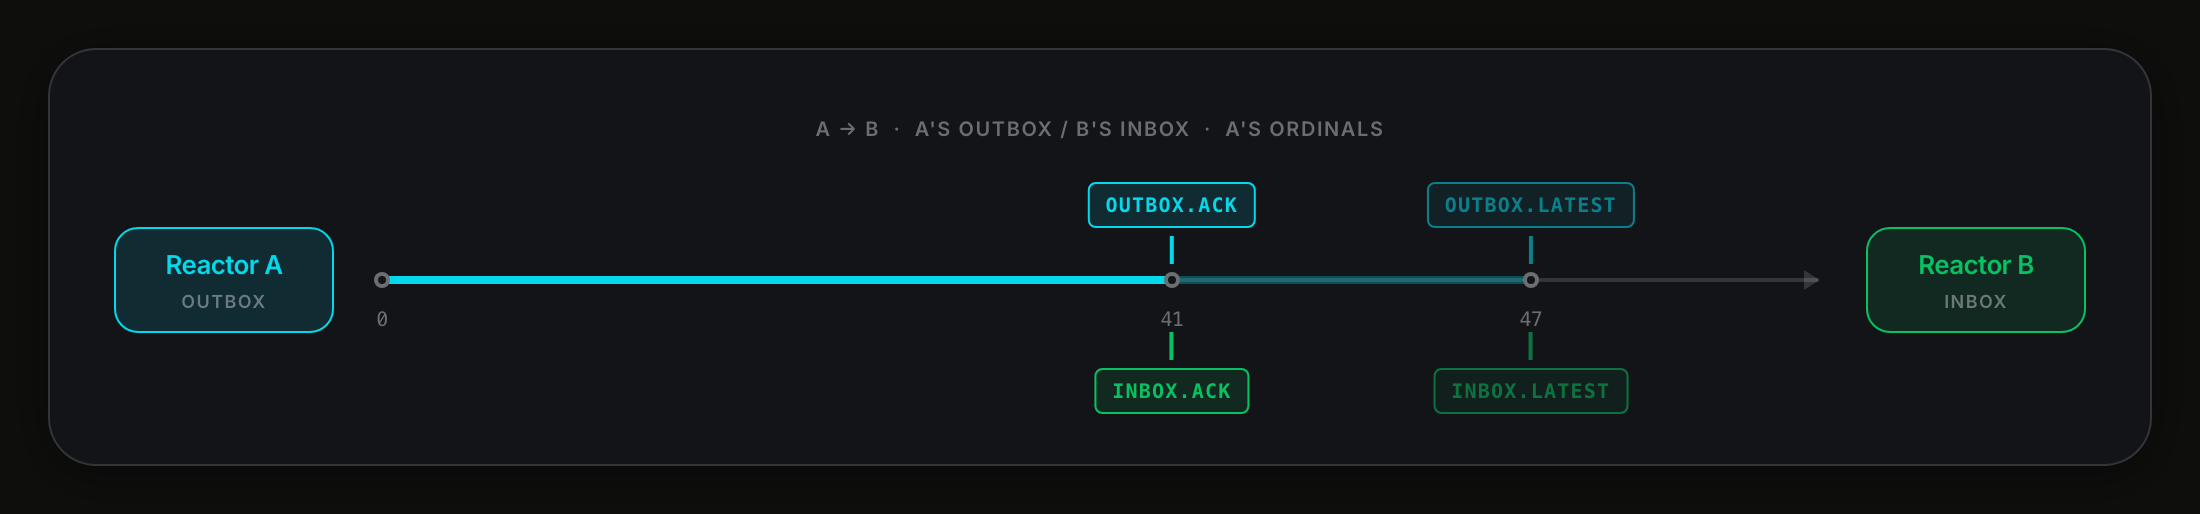
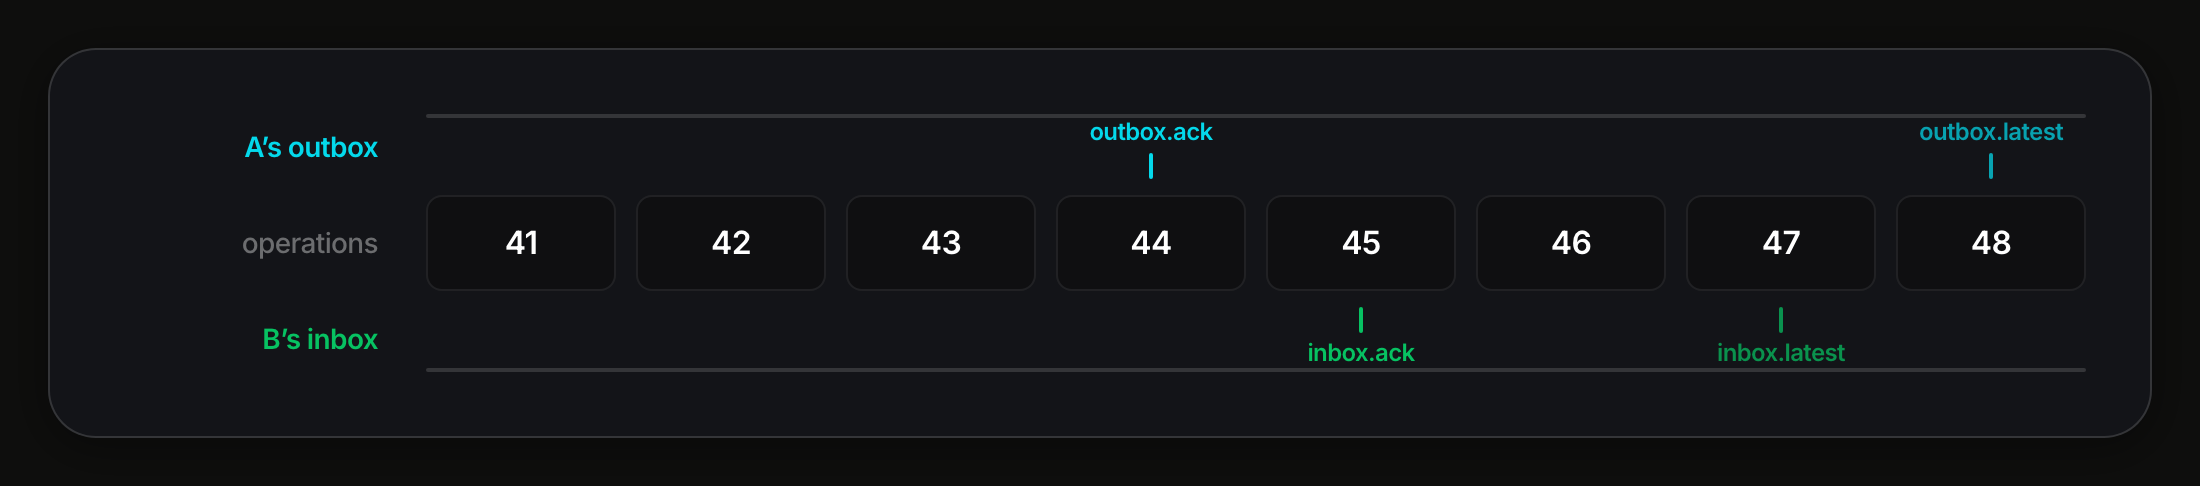
rebuild: sync-cursors as one stream with outbox and inbox tracks

diff --git a/diagrams/pages/sync-cursors.html b/diagrams/pages/sync-cursors.html
@@ -9,167 +9,121 @@
   <link rel="stylesheet" href="../css/base.css">
   <link rel="stylesheet" href="../css/components.css">
   <style>
+    /* One stream of operations, with A's outbox cursors tracked above it and B's inbox
+       cursors below. The four land on four different ordinals on purpose — they move
+       independently, and the previous version pinned them in pairs, which made them look
+       like they had to agree.
+
+       The three tracks share one 8-column template, so a cursor placed in column N sits
+       directly over operation N. Every item is placed explicitly; no auto placement. */
     .frame { max-width: 1100px; }
     .card { height: auto; }
-    .card-body { flex: none; gap: var(--space-2xl); }
+    .card-body { flex: none; }
 
-    .direction {
+    .wrap {
       display: grid;
-      grid-template-columns: 110px 1fr 110px;
+      grid-template-columns: 132px 1fr;
+      column-gap: var(--space-lg);
+      row-gap: var(--space-sm);
       align-items: center;
-      gap: var(--space-lg);
     }
 
-    .endpoint {
-      border: 1px solid var(--border-glass);
-      border-radius: var(--radius-md);
-      padding: var(--space-sm) var(--space-md);
-      font-size: 13px;
+    .lbl {
+      grid-column: 1;
+      text-align: right;
+      font-size: 14px;
       font-weight: var(--font-weight-semibold);
-      text-align: center;
-      background: var(--bg-elevated);
+      white-space: nowrap;
     }
-    .endpoint.accent-cyan  { border-color: var(--accent-cyan);  background: var(--accent-cyan-bg);  color: var(--accent-cyan); }
-    .endpoint.accent-green { border-color: var(--accent-green); background: var(--accent-green-bg); color: var(--accent-green); }
-    .endpoint .role {
-      display: block;
-      font-size: 9px;
-      font-weight: var(--font-weight-semibold);
-      letter-spacing: 0.08em;
-      text-transform: uppercase;
-      color: var(--text-muted);
-      margin-top: 2px;
+    .lbl.cyan  { color: var(--accent-cyan); }
+    .lbl.green { color: var(--accent-green); }
+    .lbl.muted { color: var(--text-muted); font-weight: var(--font-weight-medium); }
+
+    .track, .ops {
+      grid-column: 2;
+      display: grid;
+      grid-template-columns: repeat(8, 1fr);
+      column-gap: 10px;
     }
 
-    /* Number line */
-    .line-wrap { position: relative; height: 120px; }
     .line {
-      position: absolute;
-      left: 0; right: 0; top: 50%;
+      grid-column: 1 / -1;
       height: 2px;
       background: var(--border-glass);
-      transform: translateY(-50%);
+      border-radius: 1px;
     }
-    .line::after {
-      content: '';
-      position: absolute;
-      right: -1px; top: 50%;
-      transform: translateY(-50%);
-      border-top: 5px solid transparent;
-      border-bottom: 5px solid transparent;
-      border-left: 8px solid var(--border-glass);
-    }
-    /* filled segment: applied (0..ack) and seen-but-pending (ack..latest) */
-    .seg {
-      position: absolute;
-      top: 50%;
-      height: 4px;
-      transform: translateY(-50%);
-      border-radius: 2px;
-    }
-    .seg.applied.cyan  { background: var(--accent-cyan); }
-    .seg.applied.green { background: var(--accent-green); }
-    .seg.pending.cyan  { background: var(--accent-cyan);  opacity: 0.3; }
-    .seg.pending.green { background: var(--accent-green); opacity: 0.3; }
+    .track.top .line { grid-row: 1; }
+    .track.top .cur  { grid-row: 2; }
+    .track.bottom .cur  { grid-row: 1; }
+    .track.bottom .line { grid-row: 2; }
 
-    .tick {
-      position: absolute;
-      top: 50%;
-      transform: translate(-50%, -50%);
-      width: 8px; height: 8px;
-      border-radius: 50%;
-      background: var(--bg-surface);
-      border: 2px solid var(--text-muted);
-    }
-    .tick-num {
-      position: absolute;
-      top: calc(50% + 12px);
-      transform: translateX(-50%);
-      font-size: 10px;
-      color: var(--text-muted);
-      font-family: var(--font-mono, 'SF Mono', 'Fira Code', monospace);
-    }
-
-    /* Cursor markers */
-    .cursor {
-      position: absolute;
-      transform: translateX(-50%);
+    .cur {
       display: flex;
       flex-direction: column;
       align-items: center;
-      gap: 4px;
+      gap: 3px;
     }
-    .cursor.above { bottom: calc(50% + 8px); }
-    .cursor.below { top: calc(50% + 26px); flex-direction: column-reverse; }
-    .cursor-pin {
-      width: 2px; height: 14px;
-    }
-    .cursor-tag {
-      font-size: 10px;
+    .track.bottom .cur { flex-direction: column-reverse; }
+    .tag {
+      font-size: 12px;
       font-weight: var(--font-weight-semibold);
-      letter-spacing: 0.06em;
-      text-transform: uppercase;
-      padding: 3px 8px;
-      border-radius: var(--radius-xs);
-      border: 1px solid;
       white-space: nowrap;
-      font-family: var(--font-mono, 'SF Mono', 'Fira Code', monospace);
+      line-height: 1.2;
     }
-    .cursor.cyan .cursor-pin  { background: var(--accent-cyan); }
-    .cursor.cyan .cursor-tag  { color: var(--accent-cyan);  border-color: var(--accent-cyan);  background: var(--accent-cyan-bg); }
-    .cursor.green .cursor-pin { background: var(--accent-green); }
-    .cursor.green .cursor-tag { color: var(--accent-green); border-color: var(--accent-green); background: var(--accent-green-bg); }
-    .cursor.dim .cursor-tag   { opacity: 0.55; }
-    .cursor.dim .cursor-pin   { opacity: 0.55; }
+    .pin { width: 2px; height: 13px; border-radius: 1px; }
+    .cur.cyan  .tag { color: var(--accent-cyan); }
+    .cur.cyan  .pin { background: var(--accent-cyan); }
+    .cur.green .tag { color: var(--accent-green); }
+    .cur.green .pin { background: var(--accent-green); }
+    /* "latest" is the leading edge; "ack" is the settled one, so ack reads solid */
+    .cur.ahead .tag { opacity: 0.72; }
+    .cur.ahead .pin { opacity: 0.72; }
 
-    .dir-label {
-      font-size: 10px;
-      font-weight: var(--font-weight-semibold);
-      letter-spacing: 0.08em;
-      text-transform: uppercase;
-      color: var(--text-muted);
+    .op {
+      border: 1px solid var(--border-subtle);
+      border-radius: var(--radius-sm, 8px);
+      background: rgba(0, 0, 0, 0.25);
+      padding: 11px 0;
       text-align: center;
-      margin-bottom: var(--space-sm);
+      font-size: 16px;
+      font-weight: var(--font-weight-semibold);
+      color: var(--text-primary);
     }
-
   </style>
 </head>
 <body>
   <div class="frame">
     <div class="card">
       <div class="card-body">
+        <div class="wrap">
 
-        <!-- A → B : A's outbox, B's inbox -->
-        <div>
-          <div class="dir-label">A → B &nbsp;·&nbsp; A's outbox / B's inbox &nbsp;·&nbsp; A's ordinals</div>
-          <div class="direction">
-            <div class="endpoint accent-cyan">Reactor A<span class="role">outbox</span></div>
-            <div class="line-wrap">
-              <div class="line"></div>
-              <div class="seg applied cyan" style="left: 0%; width: 55%;"></div>
-              <div class="seg pending cyan" style="left: 55%; width: 25%;"></div>
-              <div class="tick" style="left: 0%"></div><span class="tick-num" style="left: 0%">0</span>
-              <div class="tick" style="left: 55%"></div><span class="tick-num" style="left: 55%">41</span>
-              <div class="tick" style="left: 80%"></div><span class="tick-num" style="left: 80%">47</span>
-              <div class="cursor cyan above" style="left: 55%">
-                <span class="cursor-tag">outbox.ack</span><div class="cursor-pin"></div>
-              </div>
-              <div class="cursor cyan above dim" style="left: 80%">
-                <span class="cursor-tag">outbox.latest</span><div class="cursor-pin"></div>
-              </div>
-              <div class="cursor green below" style="left: 55%">
-                <span class="cursor-tag">inbox.ack</span><div class="cursor-pin"></div>
-              </div>
-              <div class="cursor green below dim" style="left: 80%">
-                <span class="cursor-tag">inbox.latest</span><div class="cursor-pin"></div>
-              </div>
-            </div>
-            <div class="endpoint accent-green">Reactor B<span class="role">inbox</span></div>
+          <div class="lbl cyan" style="grid-row: 1;">A&rsquo;s outbox</div>
+          <div class="track top" style="grid-row: 1;">
+            <div class="line"></div>
+            <div class="cur cyan"       style="grid-column: 4;"><span class="tag">outbox.ack</span><span class="pin"></span></div>
+            <div class="cur cyan ahead" style="grid-column: 8;"><span class="tag">outbox.latest</span><span class="pin"></span></div>
           </div>
+
+          <div class="lbl muted" style="grid-row: 2;">operations</div>
+          <div class="ops" style="grid-row: 2;">
+            <div class="op">41</div>
+            <div class="op">42</div>
+            <div class="op">43</div>
+            <div class="op">44</div>
+            <div class="op">45</div>
+            <div class="op">46</div>
+            <div class="op">47</div>
+            <div class="op">48</div>
+          </div>
+
+          <div class="lbl green" style="grid-row: 3;">B&rsquo;s inbox</div>
+          <div class="track bottom" style="grid-row: 3;">
+            <div class="cur green"       style="grid-column: 5;"><span class="tag">inbox.ack</span><span class="pin"></span></div>
+            <div class="cur green ahead" style="grid-column: 7;"><span class="tag">inbox.latest</span><span class="pin"></span></div>
+            <div class="line"></div>
+          </div>
+
         </div>
-
-
-
       </div>
     </div>
   </div>
